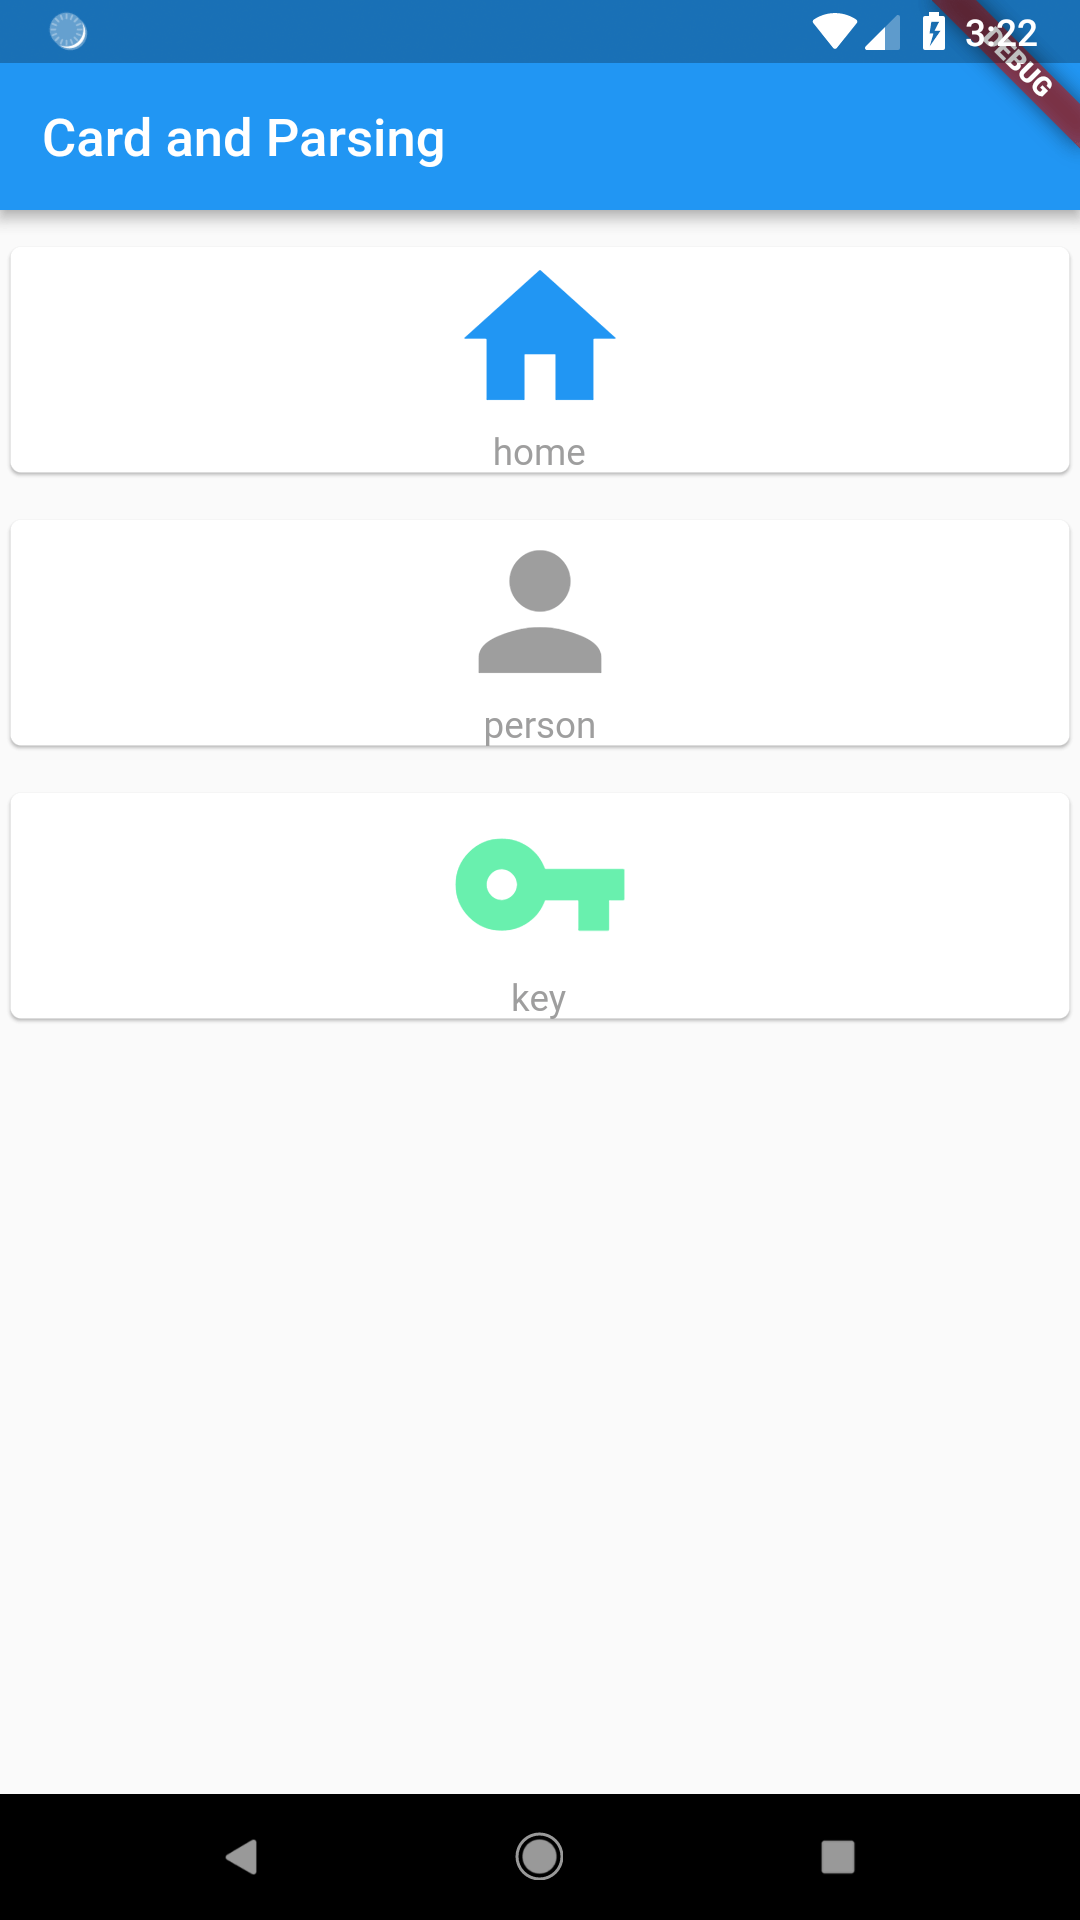
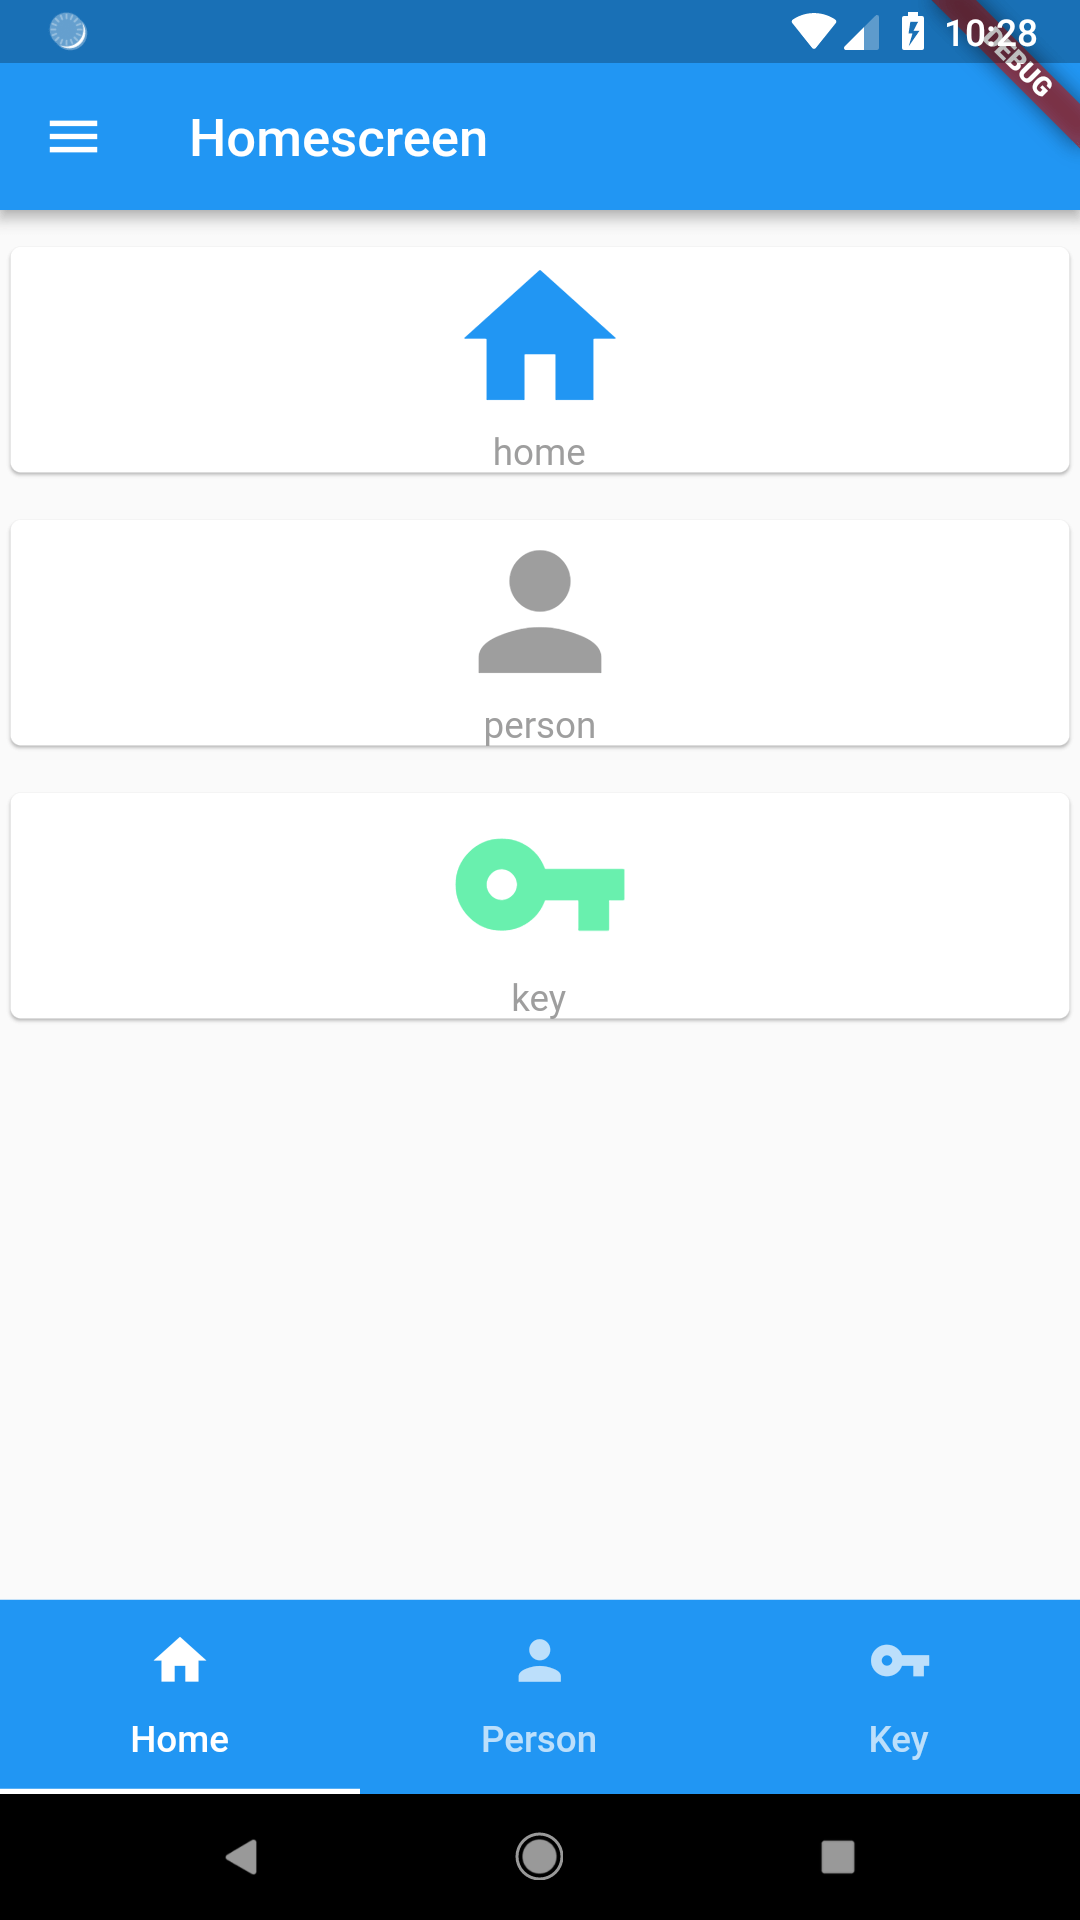
test some widget

Changed region(s): [[0.0, 0.8125, 1.0, 0.9375], [0.0306, 0.0625, 0.4583, 0.0938], [0.7333, 0.0, 0.9167, 0.0312]]

diff --git a/lib/screen/IndexScreen.dart b/lib/screen/IndexScreen.dart
@@ -1,33 +1,106 @@
 import 'package:flutter/material.dart';
-import '../component/CardList.dart';
+import '../screen/ProfileScreen.dart';
 
-class IndexScreen extends StatelessWidget {
+import '../screen/HomeScreen.dart';
+import '../screen/PersonScreen.dart';
+import '../screen/KeyScreen.dart';
+
+class IndexScreen extends StatefulWidget {
+  @override
+  _IndexScreenState createState() => _IndexScreenState();
+}
+
+class _IndexScreenState extends State<IndexScreen>
+    with SingleTickerProviderStateMixin {
+  TabController controller;
+  @override
+  void initState() {
+    controller = TabController(vsync: this, length: 3);
+    super.initState();
+  }
+
+  @override
+  void dispose() {
+    controller.dispose();
+    super.dispose();
+  }
+
+  static String title = 'Sakura chan';
+  static String profileImage =
+      'https://www.wowkeren.com/display/images/photo/2018/06/29/00214556.jpg';
+
   @override
   Widget build(BuildContext context) {
     return Scaffold(
       appBar: AppBar(
-        title: Text('Card and Parsing'),
+        title: Text('Homescreen'),
+      ),
+      drawer: Drawer(
+        child: ListView(
+          children: <Widget>[
+            UserAccountsDrawerHeader(
+              currentAccountPicture: GestureDetector(
+                onTap: () {
+                  Navigator.of(context).pop();
+                  Navigator.push(
+                    context,
+                    MaterialPageRoute(
+                      builder: (BuildContext context) =>
+                          ProfileScreen(title: title, image: profileImage),
+                    ),
+                  );
+                },
+                child: CircleAvatar(
+                  backgroundImage: NetworkImage(profileImage),
+                ),
+              ),
+              accountName: Text(title),
+              accountEmail: Text('sakura@mail.com'),
+            ),
+            ListTile(
+              onTap: () {
+                Navigator.popAndPushNamed(context, '/home');
+              },
+              leading: Icon(Icons.home),
+              title: Text('Home'),
+            ),
+            ListTile(
+              onTap: () {
+                Navigator.of(context).pop();
+                Navigator.pushNamed(context, '/key');
+              },
+              leading: Icon(Icons.vpn_key),
+              title: Text('Key'),
+            ),
+          ],
+        ),
       ),
       body: Container(
-        child: Column(
+        child: TabBarView(
+          controller: controller,
           children: <Widget>[
-            CardList(
-              cardTitle: 'home',
-              cardIcon: Icons.home,
-              cardColor: Colors.blue,
-              routeName: '/home',
+            HomeScreen(appbar: false),
+            PersonScreen(appbar: false),
+            KeyScreen(appbar: false),
+          ],
+        ),
+      ),
+      bottomNavigationBar: Material(
+        color: Colors.blue,
+        child: TabBar(
+          controller: controller,
+          tabs: <Widget>[
+            Tab(
+              icon: Icon(Icons.home),
+              text: 'Home',
             ),
-            CardList(
-              cardTitle: 'person',
-              cardIcon: Icons.person,
-              cardColor: Colors.grey,
-              routeName: '/person',
+            Tab(
+              icon: Icon(Icons.person),
+              text: 'Person',
             ),
-            CardList(
-              cardTitle: 'key',
-              cardIcon: Icons.vpn_key,
-              cardColor: Colors.greenAccent,
-              routeName: '/key',
+            Tab(
+              icon: Icon(Icons.vpn_key),
+              text: 'Key',
             ),
           ],
         ),

diff --git a/lib/screen/HomeScreen.dart b/lib/screen/HomeScreen.dart
@@ -1,13 +1,41 @@
 import 'package:flutter/material.dart';
+import '../component/CardList.dart';
 
 class HomeScreen extends StatelessWidget {
+  HomeScreen({this.appbar});
+  final bool appbar;
   @override
   Widget build(BuildContext context) {
     return Scaffold(
-      appBar: AppBar(
-        title: Text('home'),
+      appBar: appbar
+          ? AppBar(
+              title: Text('home'),
+            )
+          : null,
+      body: Container(
+        child: Column(
+          children: <Widget>[
+            CardList(
+              cardTitle: 'home',
+              cardIcon: Icons.home,
+              cardColor: Colors.blue,
+              routeName: '/home',
+            ),
+            CardList(
+              cardTitle: 'person',
+              cardIcon: Icons.person,
+              cardColor: Colors.grey,
+              routeName: '/person',
+            ),
+            CardList(
+              cardTitle: 'key',
+              cardIcon: Icons.vpn_key,
+              cardColor: Colors.greenAccent,
+              routeName: '/key',
+            ),
+          ],
+        ),
       ),
-      body: Text('this is homescreen'),
     );
   }
 }

diff --git a/lib/screen/KeyScreen.dart b/lib/screen/KeyScreen.dart
@@ -1,6 +1,9 @@
 import 'package:flutter/material.dart';
 
 class KeyScreen extends StatefulWidget {
+  KeyScreen({this.appbar});
+  final bool appbar;
+
   @override
   _KeyScreenState createState() => _KeyScreenState();
 }
@@ -48,13 +51,15 @@ class _KeyScreenState extends State<KeyScreen> {
   Widget build(BuildContext context) {
     return Scaffold(
       key: _scaffoldState,
-      appBar: AppBar(
-        title: Text('key screen'),
-      ),
+      appBar: widget.appbar
+          ? AppBar(
+              title: Text('key screen'),
+            )
+          : null,
       body: Container(
         child: Column(
           children: <Widget>[
-            Text('type: ${inputText == null ? '' :inputText}'),
+            Text('type: ${inputText == null ? '' : inputText}'),
             TextField(
               controller: inputController,
               decoration: InputDecoration(hintText: 'input text'),

diff --git a/lib/screen/PersonScreen.dart b/lib/screen/PersonScreen.dart
@@ -8,6 +8,9 @@ int count(num) {
 }
 
 class PersonScreen extends StatefulWidget {
+  PersonScreen({Key key, this.appbar});
+  final bool appbar;
+
   @override
   _PersonScreen createState() => new _PersonScreen();
 }
@@ -52,9 +55,11 @@ class _PersonScreen extends State<PersonScreen> {
   @override
   Widget build(BuildContext context) {
     return Scaffold(
-      appBar: AppBar(
-        title: Text('person'),
-      ),
+      appBar: widget.appbar
+          ? AppBar(
+              title: Text('home'),
+            )
+          : null,
       body: Container(
           child: ListView.builder(
         itemCount: memberIzone == null ? 0 : memberIzone.length,

diff --git a/lib/main.dart b/lib/main.dart
@@ -16,9 +16,9 @@ class App extends StatelessWidget {
       title: 'sanbox',
       home: IndexScreen(),
       routes: <String, WidgetBuilder>{
-        '/home' : (BuildContext context) => HomeScreen(),
-        '/person' : (BuildContext context) => PersonScreen(),
-        '/key' : (BuildContext context) => KeyScreen(),
+        '/home' : (BuildContext context) => HomeScreen(appbar: true,),
+        '/person' : (BuildContext context) => PersonScreen(appbar: true,),
+        '/key' : (BuildContext context) => KeyScreen(appbar: true,),
       },
     );
   }

diff --git a/lib/screen/ProfileScreen.dart b/lib/screen/ProfileScreen.dart
@@ -1,0 +1,23 @@
+import 'package:flutter/material.dart';
+
+class ProfileScreen extends StatelessWidget {
+  ProfileScreen({this.title, this.image});
+  final String title;
+  final String image;
+
+  @override
+  Widget build(BuildContext context) {
+    return Scaffold(
+      appBar: AppBar(
+        title: Text('$title'),
+      ),
+      body: Container(
+        child: Center(
+          child: Image(
+            image: NetworkImage(image),
+          ),
+        ),
+      ),
+    );
+  }
+}

diff --git a/README.md b/README.md
@@ -15,8 +15,12 @@ A flutter sanbox include basic widget:
 - http
 - async
 - json
+- drawer
+- circleavatar
+- bottomNavigator
+- custom appbar logic
 
-<img src="https://raw.githubusercontent.com/fariswd/flutter-sandbox/master/ss1.png" height="300"><img src="https://raw.githubusercontent.com/fariswd/flutter-sandbox/master/ss2.png" height="300"><img src="https://raw.githubusercontent.com/fariswd/flutter-sandbox/master/ss3.png" height="300">
+<img src="https://raw.githubusercontent.com/fariswd/flutter-sandbox/master/ss0.png" height="300"><img src="https://raw.githubusercontent.com/fariswd/flutter-sandbox/master/ss1.png" height="300"><img src="https://raw.githubusercontent.com/fariswd/flutter-sandbox/master/ss2.png" height="300"><img src="https://raw.githubusercontent.com/fariswd/flutter-sandbox/master/ss3.png" height="300">
 
 fariswd  
 2019
